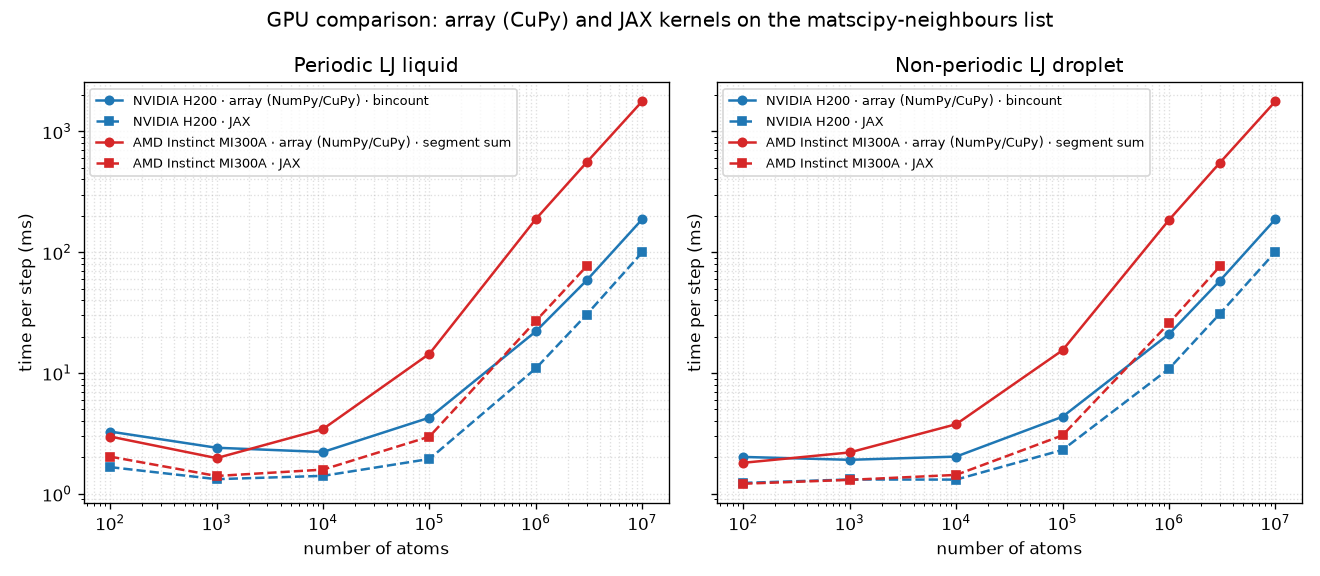
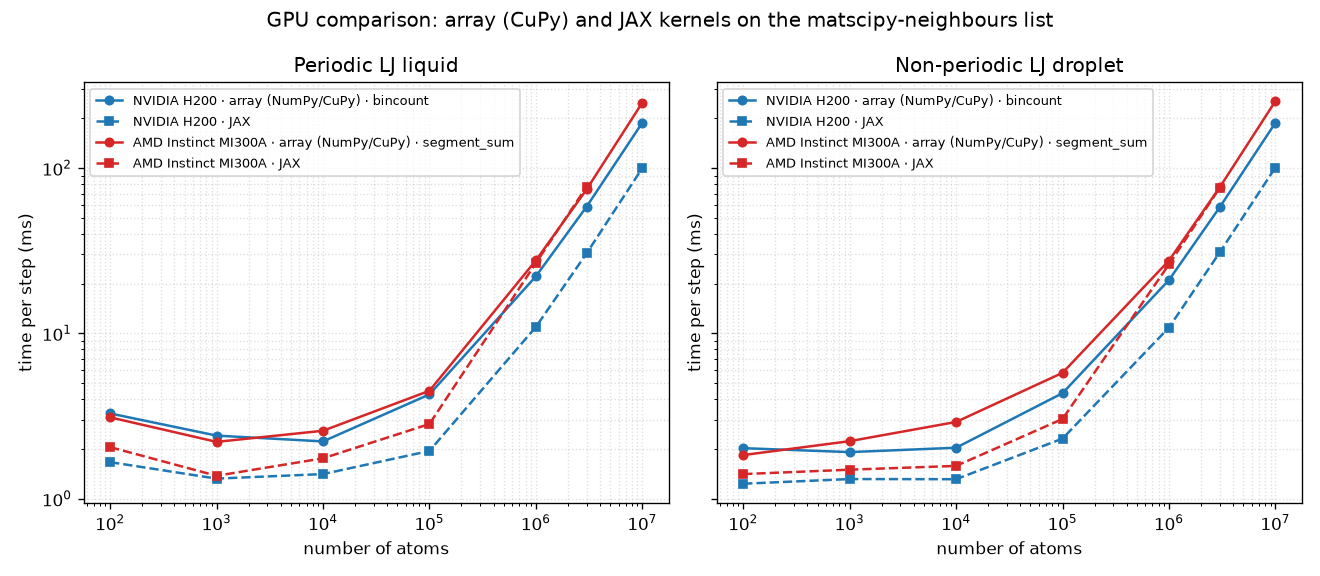
DOC: MI300A benchmarks with segment_sum, CuPy issue status
Reruns the MI300A curves with the segment_sum array kernel (28 ms per step at
10^6 atoms, reaching 10^7 atoms), labels the array curves by method, and
extends the performance-portability notes with segment_sum, the kernel-shape
tuning and the status of the CuPy-on-ROCm problems in CuPy's issue tracker.
The H200 results are unchanged.

diff --git a/examples/lj_langevin/benchmark.py b/examples/lj_langevin/benchmark.py
@@ -352,7 +352,7 @@ GPU_COMPARE_STYLE = {"array": dict(ls="-", m="o"), "jax": dict(ls="--", m="s")}
 MACHINE_COLOURS = ["tab:blue", "tab:red", "tab:purple", "tab:brown", "tab:olive"]
 # How the array kernel sums the pair forces per atom (meta["array_force_sum"]);
 # results files from before the key existed used the weighted bincount.
-ARRAY_FORCE_SUM = "segment sum"
+ARRAY_FORCE_SUM = "segment_sum"
 ARRAY_FORCE_SUM_OLD = "bincount"
 
 
@@ -421,10 +421,10 @@ def write_doc_page(path, plot_names, meta, kernel_plot_name, gpu_plot_name,
         array_sum_text = ("scatters the forces with a weighted `bincount` per "
                           "component (an atomic scatter)")
     else:
-        array_sum_text = ("sums the forces of each atom's contiguous segment of "
-                          "pairs (`first_neighbours`, then one thread per atom "
-                          "on the GPU and `add.reduceat` on the CPU; no "
-                          "atomics)")
+        array_sum_text = ("sums the forces, energies and virials of each atom's "
+                          "contiguous segment of pairs with `segment_sum` "
+                          "(segments from `first_neighbours`; no atomics), "
+                          "which also returns the totals")
     gpu_list = "\n".join(
         f"- **{name}** (host CPU: {m['meta']['cpu']})"
         for name, m in [(meta["gpu"], dict(meta=meta))] + list(machines.items()))
@@ -623,20 +623,16 @@ the matscipy-neighbours GPU list (pair list for the array kernels,
 How to read it:
 
 - The legend says how each run's array kernel sums the pair forces per atom:
-  a weighted `bincount` per component (an atomic scatter; the H200 curves) or
-  a segment sum over the pairs of each atom (`first_neighbours`, then a small
-  CuPy kernel with one thread per atom, no atomics; the MI300A curves). On the
-  MI300A the scatter took about 440 ms at 10⁶ atoms and the segment sum takes
-  about 1.5 ms.
+  a weighted `bincount` per component plus full reductions for the energy and
+  virial (the H200 curves, measured before `segment_sum` existed), or
+  `segment_sum`, which sums forces, energies and virials per atom without
+  atomics and returns the totals with them (the MI300A curves). On the MI300A
+  the old scheme took 700 ms per step at 10⁶ atoms, the new one 28 ms.
 - On the **AMD Instinct MI300A** (ROCm 6.4, JAX 0.4.35 from AMD's ROCm wheels,
-  CuPy 13.6 built from source) the JAX kernel is on par with the H200 up to
-  10⁴ atoms, where both are dominated by launch latency, and about 2.5× slower
-  from 10⁶ atoms on (26 ms against 11 ms per step at 10⁶ atoms).
-- The array kernel on the MI300A is about 9× slower than on the H200 at 10⁶
-  atoms (185–190 ms against 22 ms). Most of the step goes into the two full reductions
-  (`.sum()` for the energy and the virial), about 80 ms each: CuPy accelerates
-  reductions with CUB by default on CUDA but not on ROCm, and its generic
-  reduction is slow there. The neighbour list takes about 30 ms of the step.
+  CuPy 13.6 built from source) both kernels are on par with the H200 up to
+  10⁴ atoms, where launch latency dominates. At 10⁶ atoms the array kernel
+  takes 28 ms per step (H200: 22 ms with the old scheme) and JAX 26 ms (H200:
+  11 ms); at 10⁷ atoms the array kernel takes 250 ms (H200: 190 ms).
 - On the MI300A, JAX runs out of memory at 10⁷ atoms and the array kernel at
   3×10⁷: plain device allocations reach only the ~63 GiB coarse-grained window
   of the 128 GB of HBM the APU shares with its CPUs, and the neighbour matrix
@@ -668,20 +664,47 @@ threads hit the same atom, as they do for pairs sorted by atom: the weighted
 `bincount` took about 440 ms (three components), JAX's `segment_sum` (even with
 `indices_are_sorted=True`) 1.8 s. The list is a *full* list, so no scatter is
 needed: the pairs of an atom are one contiguous segment, `first_neighbours`
-gives the segment starts (on the GPU for device input), and one thread per
-atom sums its segment in about 1.5 ms, deterministically. The neighbour-matrix
-format avoids the scatter by construction, since each atom sums its own row;
-this is how the JAX kernel works.
+gives the segment starts (on the GPU for device input), and the library's
+`segment_sum` sums each segment without atomics, in a fixed order (so results
+are reproducible bit for bit): 0.55 ms for the (5.4×10⁷, 3) forces, about
+2.4 TB/s. `mabincount` offers the same with matscipy's signature, for sorted
+indices. The best kernel shape is itself hardware dependent: a group of lanes
+per atom and value, reading about 8–12 consecutive values together, was 3×
+faster than one thread per atom on the MI300A; the group size is chosen from
+that rule and the mean segment length, tuned on the MI300A (wave64) and still
+to be checked on NVIDIA (warp32). The neighbour-matrix format avoids the
+scatter by construction, since each atom sums its own row; this is how the
+JAX kernel works.
 
 **Library defaults differ between backends.** CuPy accelerates reductions with
 CUB by default on CUDA, but not on ROCm (`CUPY_ACCELERATORS` defaults to
 `cub` and to empty, respectively). Without it a full reduction such as
-`x.sum()` over 5.4×10⁷ elements takes about 80 ms on the MI300A, and these two
-reductions (energy and virial) are now most of the array kernel's step.
-Enabling CUB on ROCm is not a fix: in the CuPy 13.6 build used here,
-`sum(axis=1)` then returned wrong results for large arrays. CuPy's
-`add.reduceat` is built from a cumulative sum over all elements, which costs a
-temporary of the input's size (13 GB at 10⁷ atoms) and some accuracy.
+`x.sum()` over 5.4×10⁷ elements takes about 80 ms on the MI300A instead of
+0.2 ms; the energy and the virial made up most of the array kernel's step
+(190 ms of it) until `segment_sum(..., total=True)` returned them together
+with the per-atom sums (28 ms per step). Enabling CUB on ROCm is not a fix: in
+the CuPy 13.6 build used here, `sum(axis=1)` then returned wrong results for
+large arrays (with or without `ROCM_HOME` set for CuPy to find the hipCUB
+headers). CuPy's `add.reduceat` is built from a cumulative sum over all
+elements, which costs a temporary of the input's size (13 GB at 10⁷ atoms) and
+some accuracy.
+
+**Status in CuPy's issue tracker** (as of October 2026). The ROCm default was
+introduced with CUB-by-default in
+[cupy#6549](https://github.com/cupy/cupy/pull/6549), without a stated reason
+for leaving HIP out; no issue reports the slow generic reductions on ROCm, and
+[cupy#9657](https://github.com/cupy/cupy/pull/9657) (open) would add
+hipTensor as a reduction accelerator on HIP. No issue reports the wrong CUB
+axis reductions on HIP; the closest are CUDA bugs in the CUB path for large
+arrays ([cupy#9186](https://github.com/cupy/cupy/issues/9186),
+[cupy#9780](https://github.com/cupy/cupy/issues/9780), fixed by
+[cupy#9867](https://github.com/cupy/cupy/pull/9867)), and
+[cupy#9940](https://github.com/cupy/cupy/pull/9940) (open) notes that hipCUB
+errors were silently discarded. Nothing is reported on the slow float64
+`bincount` on ROCm or on `add.reduceat`'s temporary. ROCm 6.x wheels were
+planned in [cupy#8606](https://github.com/cupy/cupy/issues/8606), which was
+superseded by the ROCm 7 issue
+[cupy#9529](https://github.com/cupy/cupy/issues/9529).
 
 **Unified memory on an APU has its own limits.** The MI300A's CPUs and GPU
 share 128 GB of HBM, but plain device allocations (`hipMalloc`, and the pools

diff --git a/docs/benchmark.md b/docs/benchmark.md
@@ -184,20 +184,16 @@ the matscipy-neighbours GPU list (pair list for the array kernels,
 How to read it:
 
 - The legend says how each run's array kernel sums the pair forces per atom:
-  a weighted `bincount` per component (an atomic scatter; the H200 curves) or
-  a segment sum over the pairs of each atom (`first_neighbours`, then a small
-  CuPy kernel with one thread per atom, no atomics; the MI300A curves). On the
-  MI300A the scatter took about 440 ms at 10⁶ atoms and the segment sum takes
-  about 1.5 ms.
+  a weighted `bincount` per component plus full reductions for the energy and
+  virial (the H200 curves, measured before `segment_sum` existed), or
+  `segment_sum`, which sums forces, energies and virials per atom without
+  atomics and returns the totals with them (the MI300A curves). On the MI300A
+  the old scheme took 700 ms per step at 10⁶ atoms, the new one 28 ms.
 - On the **AMD Instinct MI300A** (ROCm 6.4, JAX 0.4.35 from AMD's ROCm wheels,
-  CuPy 13.6 built from source) the JAX kernel is on par with the H200 up to
-  10⁴ atoms, where both are dominated by launch latency, and about 2.5× slower
-  from 10⁶ atoms on (26 ms against 11 ms per step at 10⁶ atoms).
-- The array kernel on the MI300A is about 9× slower than on the H200 at 10⁶
-  atoms (185–190 ms against 22 ms). Most of the step goes into the two full reductions
-  (`.sum()` for the energy and the virial), about 80 ms each: CuPy accelerates
-  reductions with CUB by default on CUDA but not on ROCm, and its generic
-  reduction is slow there. The neighbour list takes about 30 ms of the step.
+  CuPy 13.6 built from source) both kernels are on par with the H200 up to
+  10⁴ atoms, where launch latency dominates. At 10⁶ atoms the array kernel
+  takes 28 ms per step (H200: 22 ms with the old scheme) and JAX 26 ms (H200:
+  11 ms); at 10⁷ atoms the array kernel takes 250 ms (H200: 190 ms).
 - On the MI300A, JAX runs out of memory at 10⁷ atoms and the array kernel at
   3×10⁷: plain device allocations reach only the ~63 GiB coarse-grained window
   of the 128 GB of HBM the APU shares with its CPUs, and the neighbour matrix
@@ -229,20 +225,47 @@ threads hit the same atom, as they do for pairs sorted by atom: the weighted
 `bincount` took about 440 ms (three components), JAX's `segment_sum` (even with
 `indices_are_sorted=True`) 1.8 s. The list is a *full* list, so no scatter is
 needed: the pairs of an atom are one contiguous segment, `first_neighbours`
-gives the segment starts (on the GPU for device input), and one thread per
-atom sums its segment in about 1.5 ms, deterministically. The neighbour-matrix
-format avoids the scatter by construction, since each atom sums its own row;
-this is how the JAX kernel works.
+gives the segment starts (on the GPU for device input), and the library's
+`segment_sum` sums each segment without atomics, in a fixed order (so results
+are reproducible bit for bit): 0.55 ms for the (5.4×10⁷, 3) forces, about
+2.4 TB/s. `mabincount` offers the same with matscipy's signature, for sorted
+indices. The best kernel shape is itself hardware dependent: a group of lanes
+per atom and value, reading about 8–12 consecutive values together, was 3×
+faster than one thread per atom on the MI300A; the group size is chosen from
+that rule and the mean segment length, tuned on the MI300A (wave64) and still
+to be checked on NVIDIA (warp32). The neighbour-matrix format avoids the
+scatter by construction, since each atom sums its own row; this is how the
+JAX kernel works.
 
 **Library defaults differ between backends.** CuPy accelerates reductions with
 CUB by default on CUDA, but not on ROCm (`CUPY_ACCELERATORS` defaults to
 `cub` and to empty, respectively). Without it a full reduction such as
-`x.sum()` over 5.4×10⁷ elements takes about 80 ms on the MI300A, and these two
-reductions (energy and virial) are now most of the array kernel's step.
-Enabling CUB on ROCm is not a fix: in the CuPy 13.6 build used here,
-`sum(axis=1)` then returned wrong results for large arrays. CuPy's
-`add.reduceat` is built from a cumulative sum over all elements, which costs a
-temporary of the input's size (13 GB at 10⁷ atoms) and some accuracy.
+`x.sum()` over 5.4×10⁷ elements takes about 80 ms on the MI300A instead of
+0.2 ms; the energy and the virial made up most of the array kernel's step
+(190 ms of it) until `segment_sum(..., total=True)` returned them together
+with the per-atom sums (28 ms per step). Enabling CUB on ROCm is not a fix: in
+the CuPy 13.6 build used here, `sum(axis=1)` then returned wrong results for
+large arrays (with or without `ROCM_HOME` set for CuPy to find the hipCUB
+headers). CuPy's `add.reduceat` is built from a cumulative sum over all
+elements, which costs a temporary of the input's size (13 GB at 10⁷ atoms) and
+some accuracy.
+
+**Status in CuPy's issue tracker** (as of October 2026). The ROCm default was
+introduced with CUB-by-default in
+[cupy#6549](https://github.com/cupy/cupy/pull/6549), without a stated reason
+for leaving HIP out; no issue reports the slow generic reductions on ROCm, and
+[cupy#9657](https://github.com/cupy/cupy/pull/9657) (open) would add
+hipTensor as a reduction accelerator on HIP. No issue reports the wrong CUB
+axis reductions on HIP; the closest are CUDA bugs in the CUB path for large
+arrays ([cupy#9186](https://github.com/cupy/cupy/issues/9186),
+[cupy#9780](https://github.com/cupy/cupy/issues/9780), fixed by
+[cupy#9867](https://github.com/cupy/cupy/pull/9867)), and
+[cupy#9940](https://github.com/cupy/cupy/pull/9940) (open) notes that hipCUB
+errors were silently discarded. Nothing is reported on the slow float64
+`bincount` on ROCm or on `add.reduceat`'s temporary. ROCm 6.x wheels were
+planned in [cupy#8606](https://github.com/cupy/cupy/issues/8606), which was
+superseded by the ROCm 7 issue
+[cupy#9529](https://github.com/cupy/cupy/issues/9529).
 
 **Unified memory on an APU has its own limits.** The MI300A's CPUs and GPU
 share 128 GB of HBM, but plain device allocations (`hipMalloc`, and the pools

diff --git a/CHANGELOG.md b/CHANGELOG.md
@@ -39,6 +39,18 @@ project adheres to [Semantic Versioning](https://semver.org/).
 - `tests/test_neighbour_list_gpu.cc` builds and runs with the HIP backend, and
   the device tests of `tests/test_memory_space.cc` run on HIP too, plus a test
   that the HIP block cache reuses freed blocks.
+- `segment_sum(values, seed, total=False)` sums per-pair values per atom over
+  the segments of an `i`-sorted pair list (row starts from `first_neighbours`),
+  without atomics and in a fixed order, on the host (OpenMP) or the GPU
+  (CuPy, JAX, PyTorch via DLPack); float32, float64, int32 and int64, any
+  trailing shape, optionally with the total over all atoms. On the GPU a group
+  of lanes per atom and value sums with warp shuffles, the group size chosen
+  from the values per row and the mean segment length (tuned on an MI300A:
+  0.55 ms for 5.4×10⁷ force vectors, against 440 ms for a weighted CuPy
+  `bincount`). `mabincount(x, weights, minlength, axis=0)` has matscipy's
+  signature and requires sorted `x`. The C++ core gains `segment_sum` and
+  `segment_sum_gpu_device`, and `benchmarks/bench_segment_sum` times the
+  kernel variants on a GPU.
 - `first_neighbours` accepts a device index array (CuPy, JAX, PyTorch via
   DLPack) and computes the row-start array on its GPU, returning it there in
   the input's framework (`array_namespace` overrides); host input is
@@ -52,14 +64,12 @@ project adheres to [Semantic Versioning](https://semver.org/).
   vacuum. The fused Warp and C++ kernels consume the cell-shift array `S` of
   the list for the periodic case; the array and JAX kernels are unchanged
   because the shifts are folded into the distance vectors.
-- The array example sums the pair forces per atom with a segment sum over the
-  `i`-sorted pairs instead of a weighted `bincount` per component, whose
-  float64 atomic scatter is very slow on ROCm (about 440 ms against 1.5 ms at
-  10⁶ atoms on an MI300A): `first_neighbours` gives the segment starts, and a
-  small CuPy kernel (one thread per atom) sums each segment on the GPU,
-  `add.reduceat` on the CPU. CuPy's `add.reduceat` was not used on the GPU: it
-  computes a cumulative sum of all pairs, a temporary the size of the pair
-  forces, and loses accuracy to it. Results files record
+- The array example sums the pair forces, energies and virials per atom with
+  `segment_sum(..., total=True)` instead of a weighted `bincount` per force
+  component and two full reductions. On an MI300A at 10⁶ atoms the step went
+  from 700 ms to 28 ms (and reaches 10⁷ atoms, at 250 ms): the float64 atomic scatter of `bincount` took about
+  440 ms and CuPy's full reductions about 80 ms each, as CuPy does not enable
+  CUB on ROCm. Results files record
   the method (`array_force_sum`); the GPU comparison labels the array curves
   with it.
 - The benchmark page gains a section on performance portability between
